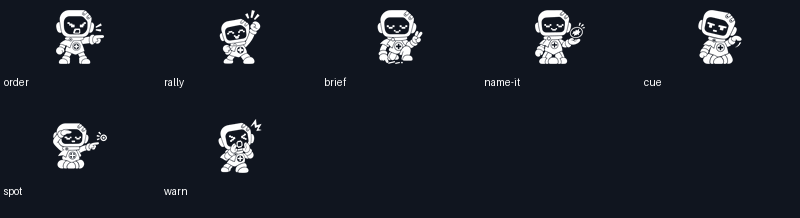
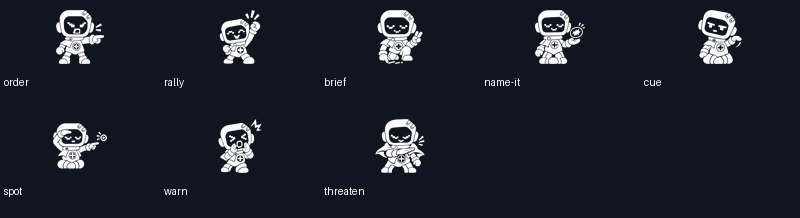
art: draw Threaten Call with cutting hand and flared capelet

Changed region(s): [[0.4688, 0.5505, 0.5312, 0.7982], [0.4062, 0.8532, 0.4688, 0.9083]]

diff --git a/art/icons/calls/README.md b/art/icons/calls/README.md
@@ -9,3 +9,4 @@ Pure white ink on transparency; image_gen drawings, technically separated and re
 - `cue.png`: Cue. Wick giving a cue: one arm raised with the hand about to drop in a sharp "now!" chop, a single short curved motion line under the hand, his head turned over his shoulder toward someone behind him.
 - `spot.png`: Spot. Wick pointing out a target: one arm fully extended with a pointing finger, his other hand shading his eyes, and far along the pointing line a small target ring.
 - `warn.png`: Warn. Wick shouting a warning: both hands cupped around his mouth, body twisted toward someone at his side, and a small sharp zig-zag danger mark above and behind him. Urgent.
+- `threaten.png`: Threaten. Wick threatening an enemy: leaning forward and looming, shoulders up, one hand drawn across in a slow cutting gesture at chest height, capelet flared. Menacing but still Wick. No weapon.

diff --git a/art/_archive/deliveries/2026-11-12/README.md b/art/_archive/deliveries/2026-11-12/README.md
@@ -2,4 +2,4 @@
 
 Review candidates; production_approved:false. Source branch: claude/charming-gauss-hbq4n0, dd35e4b8. Destination: art/briefs-complete. The brief heading says13 Wick icons, but its table and ART-REQUESTS enumerate11. This run covers those11 plus the6-feeling/4-module test set; remaining Outburst art awaits Leon’s verdict. Optional maps require current tile guides. No planned equipment or campaign maps are drawn.
 
-Delivered: 9/21. See progress.json, manifest.json, queue.json, prompts/, sources/, masters/v1/ and reviews/.
+Delivered: 10/21. See progress.json, manifest.json, queue.json, prompts/, sources/, masters/v1/ and reviews/.
